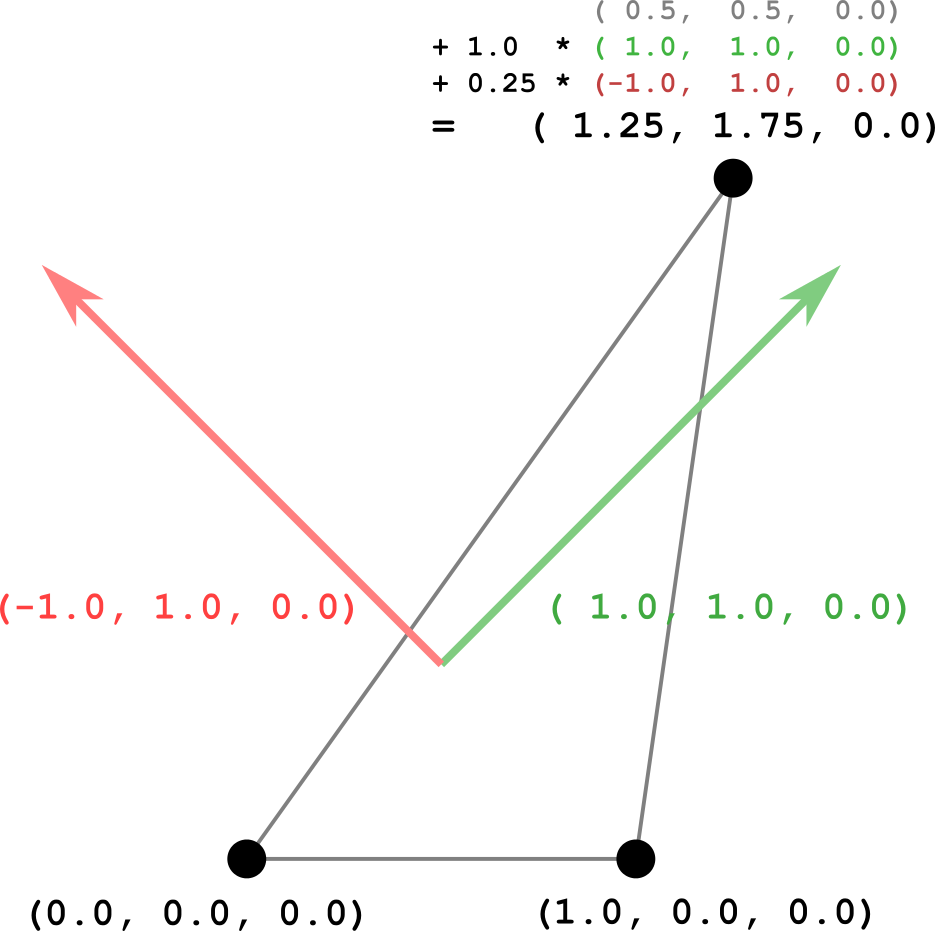
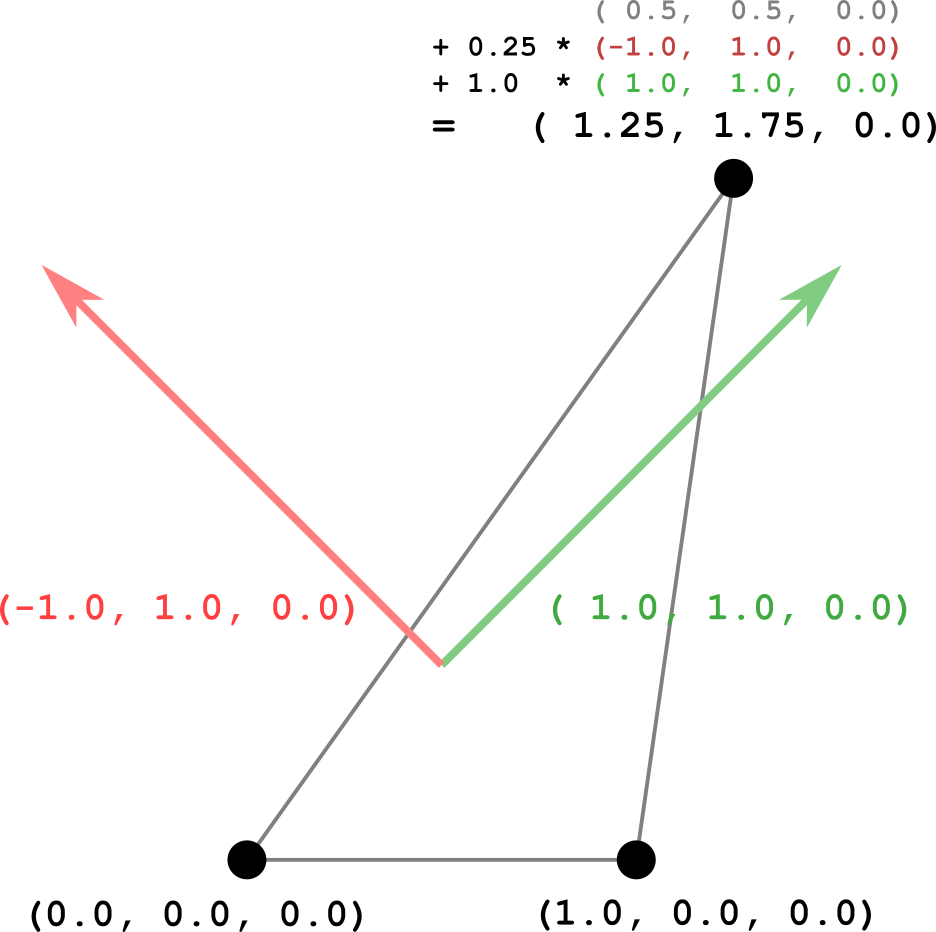
Clarification for the morph target weights

diff --git a/gltfTutorial/gltfTutorial_018_MorphTargets.md b/gltfTutorial/gltfTutorial_018_MorphTargets.md
@@ -60,7 +60,7 @@ The asset additionally contains an `animation` that affects the weights for the 
 |  4.0 | 0.0, 0.0  |
 
 
-Throughout the animation, the weights are interpolated linearly, and applied to the morph target displacements. At each point, the rendered state of the mesh primitive is updated accordingly. The following is an example of the state that is computed at 1.25 seconds.
+Throughout the animation, the weights are interpolated linearly, and applied to the morph target displacements. At each point, the rendered state of the mesh primitive is updated accordingly. The following is an example of the state that is computed at 1.25 seconds. The weights that are provided by the animation sampler for this animation time are (0.25, 1.0), and they are used for computing the linear combination of the morph target displacements.
 
 <p align="center">
 <img src="images/simpleMorphIntermediate.png" /><br>
